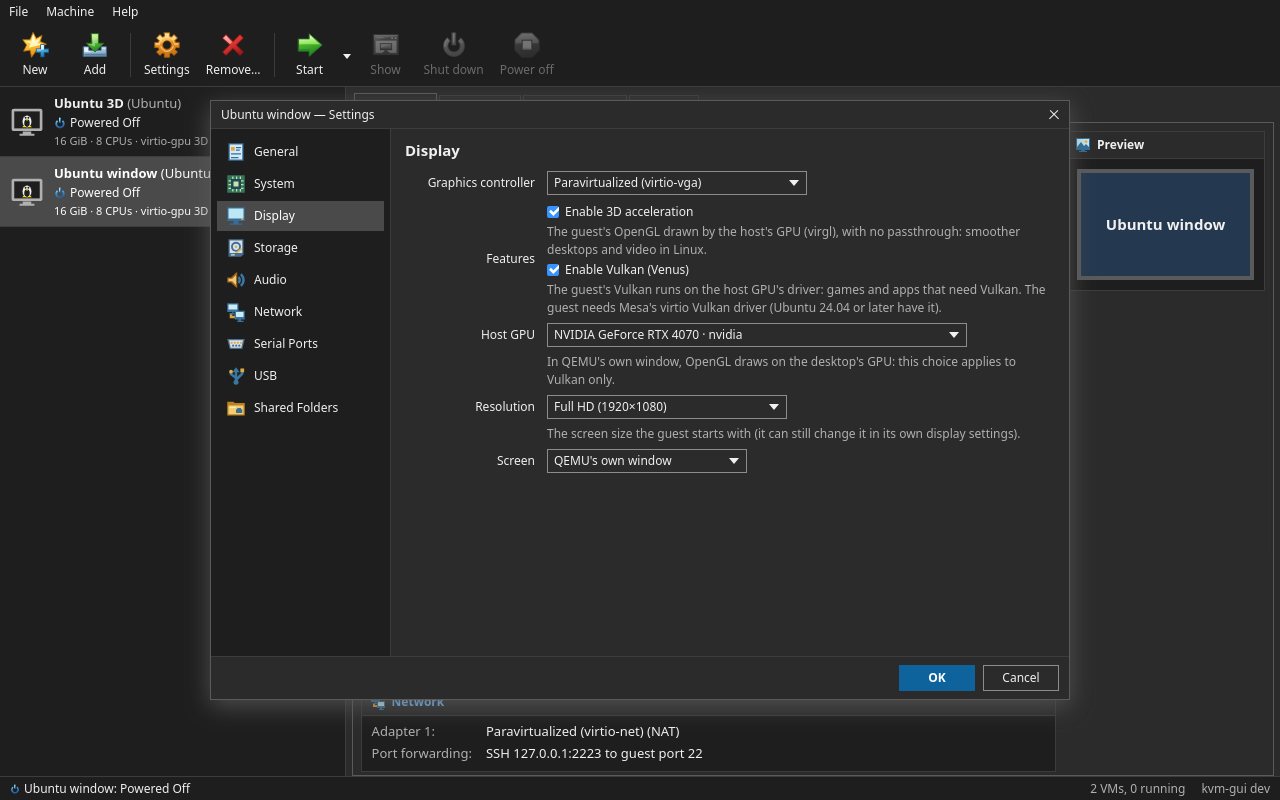
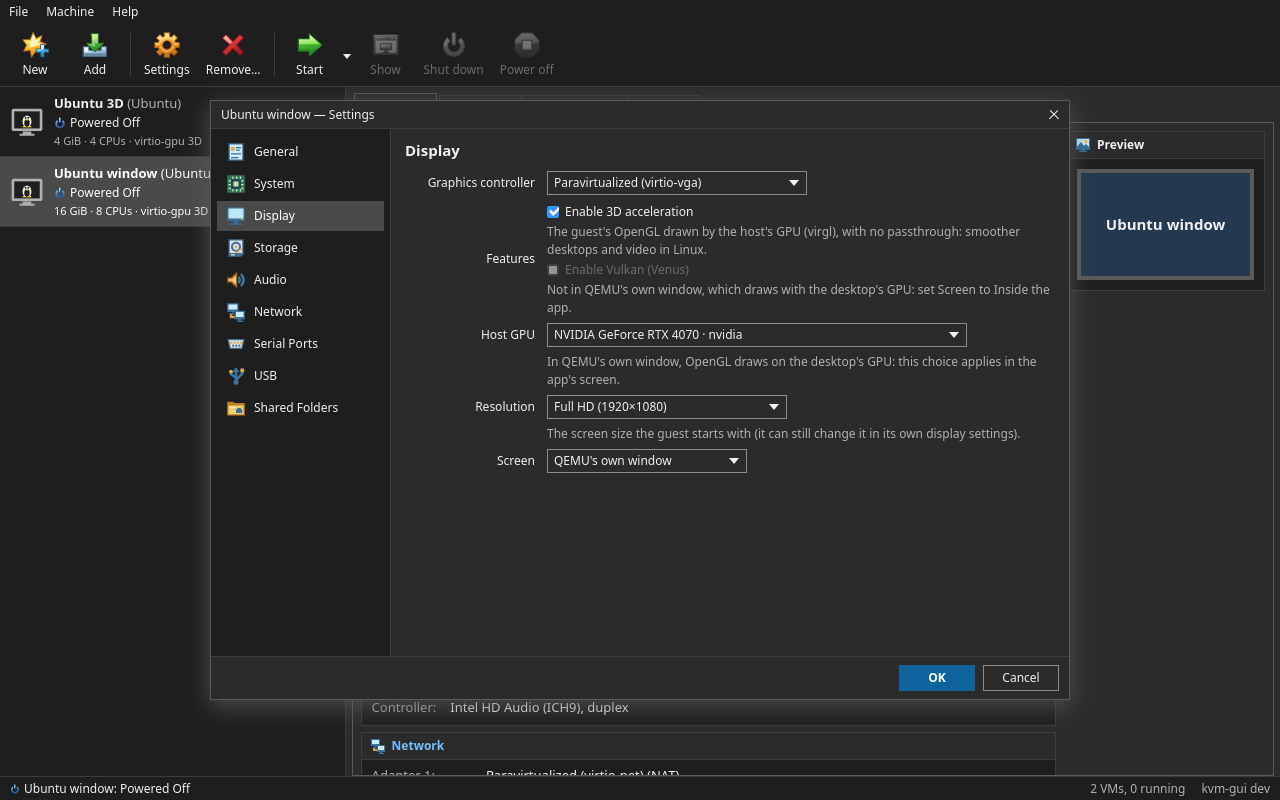
fix: Vulkan in the app's screen only, one GPU per start, and Codex's review of the 26.04 change
QEMU's own window draws with the desktop's GPU, and QEMU 10.2 crashed there on the first Venus
frame from another GPU (run on a separate Xvfb): Vulkan is refused with display=window, which
turns it off. A start resolves the host GPU once and uses it for the check, the render node and
QEMU's environment; a failed 3D probe is not cached; Settings turns Vulkan off when the
controller changes; the New VM wizard follows the host's 3D availability; `reims build
--release` refuses a host that is not Ubuntu 26.04; vm status and vm_status describe QEMU's
window. Docs: README, AGENTS.md, getting started, guests (3D, Vulkan, host GPU, validated runs),
cli, mcp, troubleshooting, reims-vgpu, development, screenshots.

OpenSpec ubuntu-26-04-and-vulkan, tasks 4.1-4.3.

diff --git a/frontend/src/VMSettings.vue b/frontend/src/VMSettings.vue
@@ -67,7 +67,10 @@ const graphicsOptions = computed<Option<string>[]>(() => (mac.value ? ["vmware-s
 // under the controller. Windows has no virgl driver.
 const graphics = computed({
   get: () => (graphicsOf(c.value) === "virtio-vga-gl" ? "virtio-vga" : graphicsOf(c.value)),
-  set: (g: string) => { c.value.graphics = g === "vmware-svga" ? "" : g === "virtio-vga" && accel3d.value ? "virtio-vga-gl" : g; },
+  set: (g: string) => {
+    c.value.graphics = g === "vmware-svga" ? "" : g === "virtio-vga" && accel3d.value ? "virtio-vga-gl" : g;
+    if (c.value.graphics !== "virtio-vga-gl") c.value.vulkan = false; // Vulkan runs on 3D acceleration
+  },
 });
 const can3d = computed(() => !mac.value && c.value.guest !== "windows" && graphics.value === "virtio-vga" && cat.value?.render3D?.can3D !== false);
 const accel3d = computed({
@@ -82,7 +85,7 @@ const hint3d = computed(() => c.value.guest === "windows" ? "Not for Windows: it
     : cat.value?.render3D?.can3D === false ? `Not on this host: ${cat.value.render3D.reason3D}.`
       : "The guest's OpenGL drawn by the host's GPU (virgl), with no passthrough: smoother desktops and video in Linux.");
 // Vulkan (Venus) and the host GPU that draws 3D (OpenSpec ubuntu-26-04-and-vulkan).
-const canVulkan = computed(() => accel3d.value && !!cat.value?.render3D?.canVulkan);
+const canVulkan = computed(() => accel3d.value && !!cat.value?.render3D?.canVulkan && c.value.display !== "window");
 const vulkan = computed({ get: () => !!c.value.vulkan, set: (on: boolean) => { c.value.vulkan = on; } });
 // lspci's "Vendor Inc. Chip [Marketing name] (rev xx)" as "Vendor Marketing name".
 const GPU_VENDORS: Record<string, string> = { "1002": "AMD", "10de": "NVIDIA", "8086": "Intel" };
@@ -112,7 +115,13 @@ const RES_NAMES: Record<string, string> = {
 const resolutionOptions = computed<Option<string>[]>(() => ((mac.value ? cat.value?.resolutions : cat.value?.guestResolutions) ?? [])
   .map((r) => [r, RES_NAMES[r] ? `${RES_NAMES[r]} (${r.replace("x", "×")})` : r.replace("x", "×")]));
 const DISPLAY: Option<string>[] = [["app", "Inside the app"], ["window", "QEMU's own window"]];
-const display = computed({ get: () => c.value.display || "app", set: (v: string) => { c.value.display = v === "app" ? "" : v; } });
+const display = computed({
+  get: () => c.value.display || "app",
+  set: (v: string) => {
+    c.value.display = v === "app" ? "" : v;
+    if (v === "window") c.value.vulkan = false; // Vulkan runs in the app's screen only
+  },
+});
 const FIRMWARE: Option<string>[] = [["uefi", "UEFI"], ["bios", "Legacy BIOS"]];
 const BOOT: Option<string>[] = [["", "Optical drive first while a medium is in"], ["cdrom", "Optical drive first"], ["disk", "Hard disk first"]];
 const BUSES: Option<string>[] = [["virtio", label("virtio")], ["sata", label("sata")], ["nvme", label("nvme")]];
@@ -278,7 +287,7 @@ onMounted(async () => { try { cat.value = await GetCatalog(); } catch (e) { prob
                 <label class="chk" :class="{ off: fixed || (!can3d && !accel3d) }"><input v-model="accel3d" type="checkbox" :disabled="fixed || (!can3d && !accel3d)" /> Enable 3D acceleration</label>
                 <p class="muted">{{ hint3d }}</p>
                 <label class="chk" :class="{ off: fixed || (!canVulkan && !vulkan) }"><input v-model="vulkan" type="checkbox" :disabled="fixed || (!canVulkan && !vulkan)" /> Enable Vulkan (Venus)</label>
-                <p class="muted">{{ !accel3d ? "Needs 3D acceleration." : cat?.render3D?.canVulkan ? "The guest's Vulkan runs on the host GPU's driver: games and apps that need Vulkan. The guest needs Mesa's virtio Vulkan driver (Ubuntu 24.04 or later have it)." : `Not on this host: ${(cat?.render3D?.vulkanReasons ?? []).join("; ")}.` }}</p>
+                <p class="muted">{{ !accel3d ? "Needs 3D acceleration." : display === "window" ? "Not in QEMU's own window, which draws with the desktop's GPU: set Screen to Inside the app." : cat?.render3D?.canVulkan ? "The guest's Vulkan runs on the host GPU's driver: games and apps that need Vulkan. The guest needs Mesa's virtio Vulkan driver (Ubuntu 24.04 or later have it)." : `Not on this host: ${(cat?.render3D?.vulkanReasons ?? []).join("; ")}.` }}</p>
               </div>
               <template v-if="accel3d">
                 <span class="lbl">Host GPU</span>
@@ -286,7 +295,7 @@ onMounted(async () => { try { cat.value = await GetCatalog(); } catch (e) { prob
                 <p v-if="c.render_gpu && !cat?.renderGPUs.some((g) => g.addr === c.render_gpu)" class="span2 note warn">This GPU is not on this host now: the VM will not start until you choose another one.</p>
                 <p v-else-if="vulkan && chosenGPU && !chosenGPU.vulkan" class="span2 note warn">{{ shortGPU(chosenGPU) }} has no Vulkan driver installed on this host.</p>
                 <p v-else-if="vulkan && chosenGPU?.twin" class="span2 muted">Another GPU of the same model is on this host: the guest's Vulkan lists both, and OpenGL draws on this one.</p>
-                <p v-if="display === 'window'" class="span2 muted">In QEMU's own window, OpenGL draws on the desktop's GPU: this choice applies to Vulkan only.</p>
+                <p v-if="display === 'window'" class="span2 muted">In QEMU's own window, OpenGL draws on the desktop's GPU: this choice applies in the app's screen.</p>
               </template>
             </template>
             <template v-if="c.graphics === 'reims-vgpu' || !mac">

diff --git a/frontend/src/NewVMWizard.vue b/frontend/src/NewVMWizard.vue
@@ -45,7 +45,7 @@ const controller = computed({
   get: () => (n.graphics === "virtio-vga-gl" ? "virtio-vga" : n.graphics),
   set: (g: string) => { n.graphics = g === "virtio-vga" && n.graphics === "virtio-vga-gl" ? "virtio-vga-gl" : g; },
 });
-const can3d = computed(() => !mac.value && n.guest !== "windows" && controller.value === "virtio-vga");
+const can3d = computed(() => !mac.value && n.guest !== "windows" && controller.value === "virtio-vga" && cat.value?.render3D?.can3D !== false);
 const accel3d = computed({ get: () => n.graphics === "virtio-vga-gl", set: (on: boolean) => { n.graphics = on ? "virtio-vga-gl" : "virtio-vga"; } });
 // macOS boots only with a power-of-two core count (cores of two threads): offer those.
 const macCPUs = computed<Option<number>[]>(() => [1, 2, 4, 8, 16, 32].filter((x) => x <= Math.max(2, cat.value?.hostThreads ?? 32)).map((x) => [x, `${x}`]));
@@ -286,7 +286,8 @@ onBeforeUnmount(() => off?.());
             <Dropdown v-model="controller" :options="graphicsOptions" :width="240" aria-label="Graphics" data-field="graphics" :disabled="reims" v-bind="inv('graphics')" />
             <template v-if="!mac">
               <span class="lbl"></span>
-              <label class="chk" :class="{ off: !can3d }"><input v-model="accel3d" type="checkbox" :disabled="!can3d" /> Enable 3D acceleration (virgl: the host's GPU draws the guest's OpenGL)</label>
+              <label class="chk" :class="{ off: !can3d && !accel3d }"><input v-model="accel3d" type="checkbox" :disabled="!can3d && !accel3d" /> Enable 3D acceleration (virgl: the host's GPU draws the guest's OpenGL)</label>
+              <span v-if="cat.render3D && !cat.render3D.can3D && n.guest !== 'windows'" class="span2 muted">3D acceleration is not available on this host: {{ cat.render3D.reason3D }}.</span>
             </template>
             <span v-if="msg('graphics')" id="wz-err-graphics" class="span2 bad">{{ msg("graphics") }}</span>
             <div v-if="n.graphics === 'reims-vgpu' && cat.reimsMissing" class="span2 note warn">

diff --git a/internal/core/guest3d_test.go b/internal/core/guest3d_test.go
@@ -42,6 +42,14 @@ func TestVulkanSettings(t *testing.T) {
 	if err := set("render-gpu=auto"); err != nil || c.RenderGPU != "" {
 		t.Fatalf("auto: %v %q", err, c.RenderGPU)
 	}
+	if err := set("display=window"); err != nil || c.Vulkan {
+		t.Fatalf("QEMU's window must turn Vulkan off: %v %+v", err, c.Vulkan)
+	}
+	c.Vulkan = true
+	if err := c.Validate(); err == nil || !strings.Contains(err.Error(), "app's screen") {
+		t.Fatalf("Vulkan in QEMU's window: %v", err)
+	}
+	c.Display, c.Vulkan = "", true
 	if err := set("graphics=" + GraphicsVirtio); err != nil || c.Vulkan {
 		t.Fatalf("3D off must turn Vulkan off: %v %+v", err, c.Vulkan)
 	}
@@ -173,7 +181,7 @@ func TestGuest3DSupportAndStartChecks(t *testing.T) {
 			}
 		}
 		vm := Config{Graphics: GraphicsVirtioGL, Vulkan: true}
-		err := h.check3D(vm, "/qemu-"+name)
+		_, err := h.check3D(vm, "/qemu-"+name)
 		if (err == nil) != c.canVulkan || (err != nil && !strings.Contains(err.Error(), "Settings › Display")) {
 			t.Errorf("%s: Vulkan start: %v", name, err)
 		}
@@ -182,26 +190,38 @@ func TestGuest3DSupportAndStartChecks(t *testing.T) {
 	h.Output = func(string, ...string) ([]byte, error) { return help, nil }
 	write(t, filepath.Join(h.FirmwareRoot, "usr/libexec/virgl_render_server"), "")
 	write(t, filepath.Join(h.FirmwareRoot, "usr/lib/x86_64-linux-gnu/libvulkan.so.1"), "VK_LOADER_DEVICE_ID_FILTER")
-	if err := h.check3D(Config{Graphics: GraphicsVirtioGL, Vulkan: true, RenderGPU: "0000:01:00.0"}, "/qemu-u"); err == nil || !strings.Contains(err.Error(), "no Vulkan driver") {
+	if _, err := h.check3D(Config{Graphics: GraphicsVirtioGL, Vulkan: true, RenderGPU: "0000:01:00.0"}, "/qemu-u"); err == nil || !strings.Contains(err.Error(), "no Vulkan driver") {
 		t.Errorf("Vulkan on a GPU without an ICD: %v", err)
 	}
-	if err := h.check3D(Config{Graphics: GraphicsVirtioGL, RenderGPU: "0000:42:00.0"}, "/qemu-u"); err == nil || !strings.Contains(err.Error(), "0000:42:00.0") {
+	if _, err := h.check3D(Config{Graphics: GraphicsVirtioGL, RenderGPU: "0000:42:00.0"}, "/qemu-u"); err == nil || !strings.Contains(err.Error(), "0000:42:00.0") {
 		t.Errorf("a missing GPU: %v", err)
 	}
 	if os.Geteuid() != 0 {
 		os.Chmod(filepath.Join(h.DevDRI, "renderD128"), 0)
-		if err := h.check3D(Config{Graphics: GraphicsVirtioGL}, "/qemu-u"); err == nil || !strings.Contains(err.Error(), "render group") {
+		if _, err := h.check3D(Config{Graphics: GraphicsVirtioGL}, "/qemu-u"); err == nil || !strings.Contains(err.Error(), "render group") {
 			t.Errorf("an inaccessible node in the app's screen: %v", err)
 		}
-		if err := h.check3D(Config{Graphics: GraphicsVirtioGL, Display: DisplayWindow}, "/qemu-u"); err != nil {
+		if _, err := h.check3D(Config{Graphics: GraphicsVirtioGL, Display: DisplayWindow}, "/qemu-u"); err != nil {
 			t.Errorf("QEMU's window does not use the node for OpenGL: %v", err)
 		}
-		if err := h.check3D(Config{Graphics: GraphicsVirtioGL, Display: DisplayWindow, Vulkan: true}, "/qemu-u"); err == nil {
+		if _, err := h.check3D(Config{Graphics: GraphicsVirtioGL, Display: DisplayWindow, Vulkan: true}, "/qemu-u"); err == nil {
 			t.Error("Vulkan in QEMU's window still needs the node")
 		}
 	}
-	if err := h.check3D(Config{Graphics: GraphicsVirtio}, "/qemu-u"); err != nil {
+	if _, err := h.check3D(Config{Graphics: GraphicsVirtio}, "/qemu-u"); err != nil {
 		t.Errorf("2D: %v", err)
+	}
+	if g, err := h.check3D(Config{Graphics: GraphicsVirtioGL, RenderGPU: "0000:01:00.0"}, "/qemu-u"); err != nil || !strings.HasSuffix(g.Node, "renderD129") {
+		t.Errorf("the GPU a start uses is the one checked: %+v %v", g, err)
+	}
+	// A failed probe is not kept: installing QEMU's OpenGL modules shows without a restart.
+	h.Output = func(string, ...string) ([]byte, error) { return nil, errors.New("not found") }
+	if s := h.Guest3DSupport("/qemu-later"); s.Can3D {
+		t.Fatal("3D without the device")
+	}
+	h.Output = func(string, ...string) ([]byte, error) { return help, nil }
+	if s := h.Guest3DSupport("/qemu-later"); !s.Can3D {
+		t.Error("a repaired host still shows the old failure")
 	}
 }
 

diff --git a/internal/core/guest3d.go b/internal/core/guest3d.go
@@ -152,10 +152,10 @@ func (h Host) Guest3DSupport(qemu string) Guest3D {
 		out, err := h.Output(qemu, "-device", "virtio-vga-gl,help")
 		if err == nil && bytes.Contains(out, []byte("blob")) {
 			help = string(out)
+			gl3DHelpMu.Lock()
+			gl3DHelp[qemu] = help // only a success is kept: installing QEMU's OpenGL modules shows without a restart
+			gl3DHelpMu.Unlock()
 		}
-		gl3DHelpMu.Lock()
-		gl3DHelp[qemu] = help
-		gl3DHelpMu.Unlock()
 	}
 	var s Guest3D
 	if help == "" {
@@ -199,33 +199,55 @@ func (h Host) loaderHasFilters() bool {
 }
 
 // check3D refuses a 3D start this host cannot run, naming what is missing and Settings › Display.
-func (h Host) check3D(c Config, qemu string) error {
+// It returns the GPU the start uses, resolved once so the arguments and QEMU's environment name the
+// GPU that was checked.
+func (h Host) check3D(c Config, qemu string) (RenderGPU, error) {
 	if c.Graphics != GraphicsVirtioGL {
-		return nil
+		return RenderGPU{}, nil
 	}
 	s := h.Guest3DSupport(qemu)
 	if !s.Can3D {
-		return errors.New(s.Reason3D + ": turn 3D acceleration off in Settings › Display")
+		return RenderGPU{}, errors.New(s.Reason3D + ": turn 3D acceleration off in Settings › Display")
 	}
 	if c.Vulkan && !s.CanVulkan {
-		return errors.New("Vulkan (Venus) cannot run on this host: " + strings.Join(s.VulkanReasons, "; ") + ". Turn Vulkan off in Settings › Display")
+		return RenderGPU{}, errors.New("Vulkan (Venus) cannot run on this host: " + strings.Join(s.VulkanReasons, "; ") + ". Turn Vulkan off in Settings › Display")
 	}
 	g, err := h.RenderGPUFor(c)
 	if err != nil {
-		return err
+		return RenderGPU{}, err
 	}
 	if c.Vulkan && !g.Vulkan {
-		return fmt.Errorf("the host GPU %s (%s) has no Vulkan driver installed: install it, or turn Vulkan off in Settings › Display", g.Name, g.Driver)
+		return RenderGPU{}, fmt.Errorf("the host GPU %s (%s) has no Vulkan driver installed: install it, or turn Vulkan off in Settings › Display", g.Name, g.Driver)
 	}
 	if !c.InApp() && !c.Vulkan {
-		return nil // QEMU's window draws OpenGL on the desktop's GPU: the render node is not used
+		return g, nil // QEMU's window draws OpenGL on the desktop's GPU: the render node is not used
 	}
 	f, err := os.OpenFile(g.Node, os.O_RDWR, 0)
 	if err != nil {
-		return fmt.Errorf("3D acceleration cannot use the host GPU %s (%v): log in on the desktop, or join the render group (sudo usermod -aG render $USER, then log in again)", g.Name, err)
+		return RenderGPU{}, fmt.Errorf("3D acceleration cannot use the host GPU %s (%v): log in on the desktop, or join the render group (sudo usermod -aG render $USER, then log in again)", g.Name, err)
 	}
 	f.Close()
-	return nil
+	return g, nil
+}
+
+// Describe3D says how a 3D VM is accelerated and on which GPU, for `vm status` and vm_status
+// ("" without 3D).
+func Describe3D(c Config) string {
+	if c.Graphics != GraphicsVirtioGL {
+		return ""
+	}
+	if c.Display == DisplayWindow {
+		return "OpenGL (virgl) on the desktop's GPU, in QEMU's own window"
+	}
+	what := "OpenGL (virgl)"
+	if c.Vulkan {
+		what += " and Vulkan (Venus)"
+	}
+	g, err := SystemHost().RenderGPUFor(c)
+	if err != nil {
+		return what + ": " + err.Error()
+	}
+	return what + " on " + g.Name + " (" + g.Addr + ")"
 }
 
 // venusHostmem is the host-visible window a Venus guest maps GPU memory through; it is address

diff --git a/internal/core/reimspkg.go b/internal/core/reimspkg.go
@@ -496,18 +496,21 @@ func reimsInUseIn(proc, dir string) bool {
 // (release "" = the host's), caching the build in <ReimsDir>/build-<release>, then stages it and
 // activates it as InstallReims does.
 func BuildReims(ctx context.Context, release string, log func(string)) error {
-	if release == "" {
-		r, err := HostPlatform()
-		if err != nil {
-			return err
-		}
-		if !slices.Contains(ReimsReleases, r) {
-			return fmt.Errorf("Reims vGPU builds from source for Ubuntu %s only; this host is %s: install its prebuilt package instead (Install Reims vGPU, or `kvm-gui reims install`)", strings.Join(ReimsReleases, " and "), r)
-		}
-		release = r
-	} else if !slices.Contains(ReimsReleases, release) {
+	if release != "" && !slices.Contains(ReimsReleases, release) {
 		return fmt.Errorf("Reims vGPU builds for Ubuntu %s, not %q (%s hosts install the prebuilt package)", strings.Join(ReimsReleases, " and "), release, SupportedHosts)
 	}
+	// The build runs only on the release it builds for: a build for another host would only be staged.
+	r, err := HostPlatform()
+	if err != nil {
+		return err
+	}
+	if !slices.Contains(ReimsReleases, r) {
+		return fmt.Errorf("Reims vGPU builds from source on Ubuntu %s only; this host is %s: install its prebuilt package instead (Install Reims vGPU, or `kvm-gui reims install`)", strings.Join(ReimsReleases, " and "), r)
+	}
+	if release != "" && release != r {
+		return fmt.Errorf("Reims vGPU builds for this host's release (Ubuntu %s), not %q", r, release)
+	}
+	release = r
 	if _, err := exec.LookPath("docker"); err != nil {
 		return errors.New("the build needs Docker: install it (sudo apt install docker.io) and add yourself to the docker group (sudo usermod -aG docker $USER, then log in again)")
 	}

diff --git a/internal/mcp/server.go b/internal/mcp/server.go
@@ -173,22 +173,6 @@ type vmStatusOut struct {
 	Render3D   string `json:"render_3d,omitempty" jsonschema:"a Linux or Other VM with 3D acceleration: OpenGL, and Vulkan when on, and the host GPU that draws it (or why it cannot)"`
 }
 
-// render3D describes a 3D VM's acceleration and the host GPU it draws on ("" without 3D).
-func render3D(c core.Config) string {
-	if c.Graphics != core.GraphicsVirtioGL {
-		return ""
-	}
-	what := "OpenGL (virgl)"
-	if c.Vulkan {
-		what += " and Vulkan (Venus)"
-	}
-	g, err := core.SystemHost().RenderGPUFor(c)
-	if err != nil {
-		return what + ": " + err.Error()
-	}
-	return what + " on " + g.Name + " (" + g.Addr + ")"
-}
-
 func vmStatus(_ context.Context, _ *mcp.CallToolRequest, in vmArg) (*mcp.CallToolResult, vmStatusOut, error) {
 	e, err := findVM(in.VM)
 	if err != nil {
@@ -196,7 +180,7 @@ func vmStatus(_ context.Context, _ *mcp.CallToolRequest, in vmArg) (*mcp.CallToo
 	}
 	out := vmStatusOut{vmInfo: vmInfo{e.ID, e.DisplayName(), e.Config.Version, false}, QEMUState: "stopped",
 		GuestPhase: "unknown", Layout: core.RecoveryKeyboard(), SSHPort: e.Config.SSHPort,
-		Warning: core.SSHPortWarning(e.Config.SSHPort, e.ID), Render3D: render3D(e.Config)}
+		Warning: core.SSHPortWarning(e.Config.SSHPort, e.ID), Render3D: core.Describe3D(e.Config)}
 	r, ok := core.FindRun(e)
 	if !ok {
 		return nil, out, nil

diff --git a/cmd/vms.go b/cmd/vms.go
@@ -301,23 +301,14 @@ var vmStatusCmd = &cobra.Command{
 		c := e.Config
 		fmt.Fprintf(out, "name:      %s (%s)\n", e.DisplayName(), e.ID)
 		fmt.Fprintf(out, "status:    %s\n", statusOf(e))
-		fmt.Fprintf(out, "macOS:     %s, %d MiB, %d vCPUs\n", c.Version, c.RAMMiB, c.VCPUs)
+		if c.MacOS() {
+			fmt.Fprintf(out, "macOS:     %s, %d MiB, %d vCPUs\n", c.Version, c.RAMMiB, c.VCPUs)
+		} else {
+			fmt.Fprintf(out, "system:    %s (%s), %d MiB, %d vCPUs\n", c.Profile, c.Guest, c.RAMMiB, c.VCPUs)
+		}
 		fmt.Fprintf(out, "folder: %s\n", c.Workspace)
-		if c.Graphics == core.GraphicsVirtioGL {
-			what := "OpenGL (virgl)"
-			if c.Vulkan {
-				what += " and Vulkan (Venus)"
-			}
-			on := "the automatic GPU"
-			if c.RenderGPU != "" {
-				on = c.RenderGPU
-			}
-			if g, err := core.SystemHost().RenderGPUFor(c); err == nil {
-				on = g.Name + " (" + g.Addr + ")"
-			} else {
-				on += ": " + err.Error()
-			}
-			fmt.Fprintf(out, "3D:        %s on %s\n", what, on)
+		if d := core.Describe3D(c); d != "" {
+			fmt.Fprintf(out, "3D:        %s\n", d)
 		}
 		if c.SSHForwarded() {
 			fmt.Fprintf(out, "ssh:       ssh -p %d user@127.0.0.1\n", c.SSHPort)

diff --git a/internal/core/guest.go b/internal/core/guest.go
@@ -217,6 +217,11 @@ func (c Config) validateGuest() error {
 	if c.Vulkan && c.Graphics != GraphicsVirtioGL {
 		return &FieldError{"vulkan", "Vulkan needs 3D acceleration (graphics " + GraphicsVirtioGL + ")"}
 	}
+	if c.Vulkan && c.Display == DisplayWindow {
+		// QEMU's window draws with the desktop's GPU, which cannot show another GPU's Venus buffers:
+		// QEMU 10.2 crashed there on the first Vulkan frame (OpenSpec ubuntu-26-04-and-vulkan, 4.1).
+		return &FieldError{"vulkan", "Vulkan runs in the app's screen only: QEMU's own window draws with the desktop's GPU, which cannot show it (set Screen to Inside the app)"}
+	}
 	if c.RenderGPU != "" && !pciAddrRe.MatchString(c.RenderGPU) {
 		return &FieldError{"render_gpu", "expected a PCI address such as 0000:03:00.0, or nothing for the automatic choice"}
 	}

diff --git a/internal/core/configkeys.go b/internal/core/configkeys.go
@@ -14,8 +14,13 @@ import (
 var ConfigKeys = map[string]func(*Config, string) error{
 	"workspace": func(c *Config, v string) error { c.Workspace = v; return nil },
 	"version":   func(c *Config, v string) error { c.Version = v; return nil },
-	"display":   func(c *Config, v string) error { c.Display = v; return nil },
-	"gpu":       func(c *Config, v string) error { c.GPU = v; return nil },
+	"display": func(c *Config, v string) error {
+		if c.Display = v; v == DisplayWindow {
+			c.Vulkan = false // Vulkan runs in the app's screen only
+		}
+		return nil
+	},
+	"gpu": func(c *Config, v string) error { c.GPU = v; return nil },
 	"graphics": func(c *Config, v string) error {
 		if c.Graphics = v; v != GraphicsVirtioGL {
 			c.Vulkan = false // Vulkan runs on 3D acceleration: turning 3D off turns it off

diff --git a/internal/core/vm.go b/internal/core/vm.go
@@ -98,8 +98,12 @@ func runArgs(c Config, qmpSocket string) []string {
 		// lock-key-sync=off keeps QEMU from injecting Caps Lock presses inferred from keysyms.
 		display := "none"
 		if c.Graphics == GraphicsVirtioGL { // the host GPU draws, the VNC socket shows it
-			g, _ := renderGPU(c) // check3D refused the start when there is none
-			display = "egl-headless,rendernode=" + qemuPath(g.Node)
+			node := c.renderNode // set by the start from the GPU check3D resolved
+			if node == "" {
+				g, _ := renderGPU(c)
+				node = g.Node
+			}
+			display = "egl-headless,rendernode=" + qemuPath(node)
 		}
 		args = append(args, "-display", display, "-vnc", "unix:"+qemuPath(VNCSocket(qmpSocket))+",lock-key-sync=off")
 	} else if c.Graphics == GraphicsVirtioGL {

diff --git a/internal/core/guest_run.go b/internal/core/guest_run.go
@@ -209,17 +209,18 @@ func (v *VM) startGuest(c Config) error {
 			return err
 		}
 	}
-	args, err := guestArgs(c, dir, fw, sock, tpmSock)
 	qemu := SystemQEMU()
+	g, err := SystemHost().check3D(c, qemu)
+	c.renderNode = g.Node // the arguments draw on the GPU just checked
+	var args []string
+	if err == nil {
+		args, err = guestArgs(c, dir, fw, sock, tpmSock)
+	}
 	if err == nil {
 		err = checkDevices(qemu, args)
 	}
-	if err == nil {
-		err = SystemHost().check3D(c, qemu)
-	}
 	var env []string
 	if err == nil && c.Vulkan {
-		g, _ := renderGPU(c)
 		env = vulkanEnv(os.Environ(), g)
 	}
 	if err != nil {

diff --git a/internal/core/config.go b/internal/core/config.go
@@ -79,6 +79,8 @@ type Config struct {
 	RenderGPU string `json:"render_gpu,omitempty"`
 	// rootPatchWasOn is set by PrepareBoot when the previous boot had root-patch mode on.
 	rootPatchWasOn bool
+	// renderNode is set by a 3D start: the render node of the GPU it checked (guest3d.go).
+	renderNode string
 	// Extras is a start's snapshot of settings.yaml, never saved; nil
 	// (creating a VM) loads no extra kext. extraKexts is set by PrepareBoot: {folder, name}.
 	Extras     *ExtraKexts `json:"-"`
